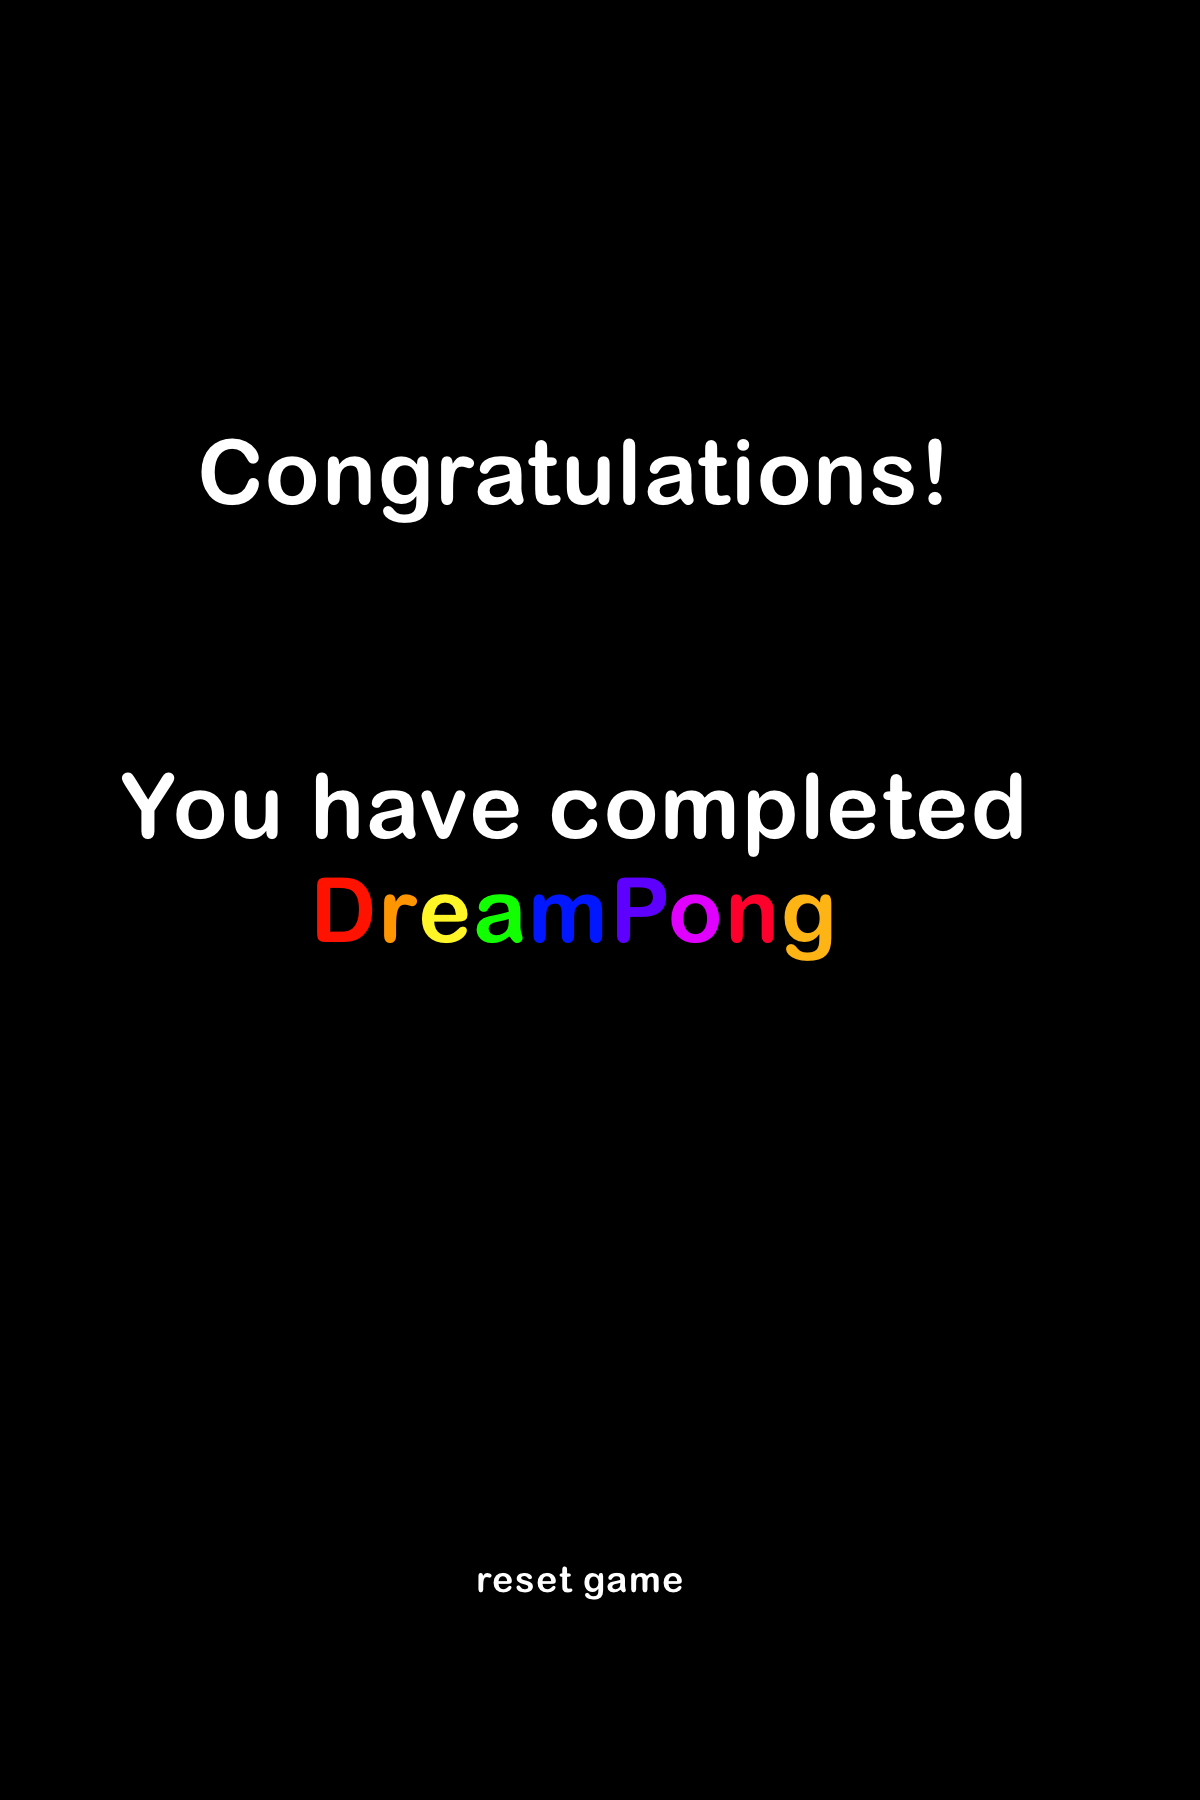
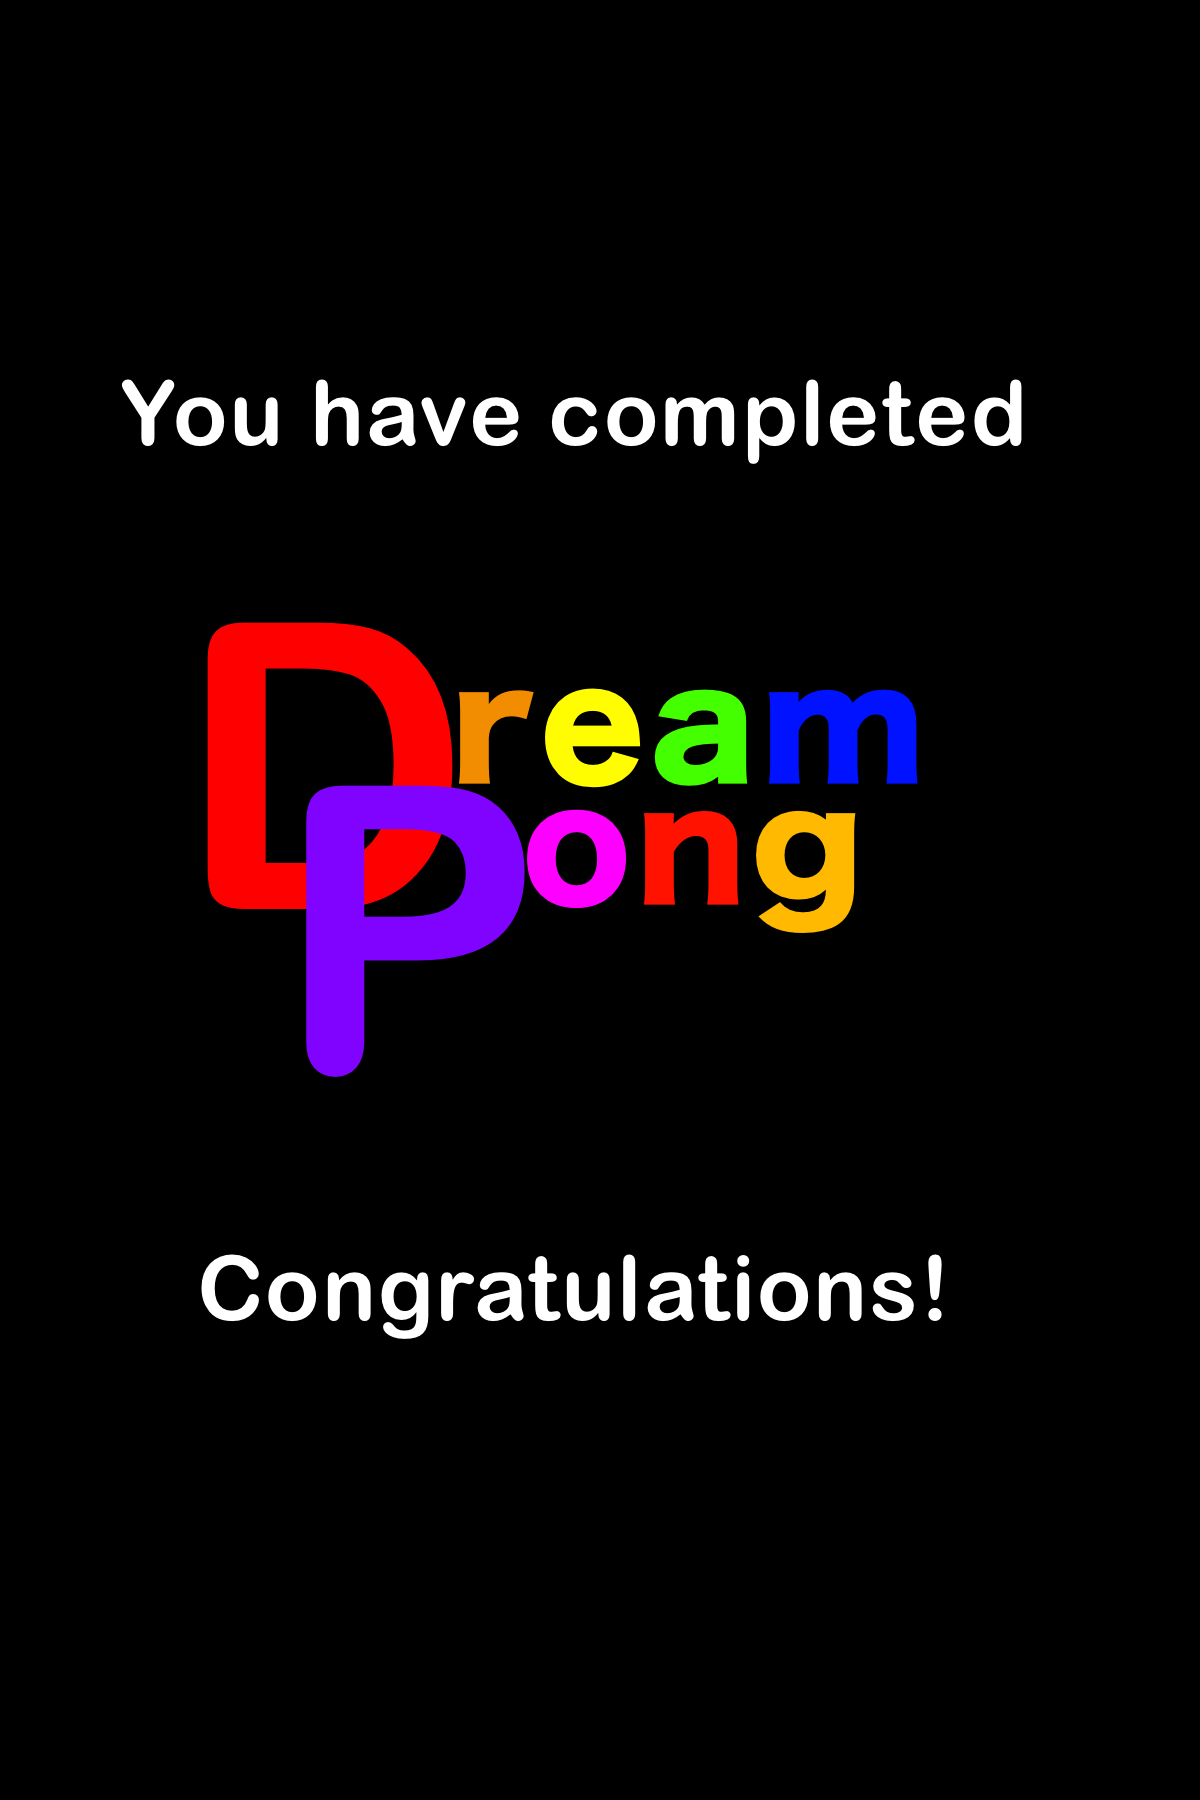
Relatively completed software to turn in

diff --git a/src/breakout/SceneController.java b/src/breakout/SceneController.java
@@ -20,6 +20,7 @@ import javafx.scene.text.Font;
 import javafx.stage.Stage;
 import java.util.ArrayList;
 import java.util.HashMap;
+import java.util.HashSet;
 import java.util.Scanner;
 import javafx.scene.control.Label;
 import javafx.util.Duration;
@@ -74,6 +75,7 @@ public class SceneController extends Application {
 
     //Level Screen Objects
     private Scene levelScene;
+    public static final String LEVEL_SCREEN_NEXT_LEVEL = "nextlevel.png";
     public static final String LEVEL_SCREEN_LAYOUT = "levellayout.png";
     public static final String LEVEL_SCREEN_MENU_BUTTON = "menubutton.png";
     public static final String LEVEL_SCREEN_MENU_BUTTON_HOVER = "menubuttonhover.png";
@@ -89,6 +91,7 @@ public class SceneController extends Application {
     public static final String PU_SLOWBALL= "pu_slowball.png";
     public static final String PU_POWERBALL= "pu_powerball.png";
     public static final String PU_LASER= "pu_laser.png";
+    public static final String DREAMBUCK = "dreambuck.png";
     public static final String LEVEL_1 = "Level1.txt";
     public static final String LEVEL_2 = "Level2.txt";
     public static final String LEVEL_3 = "Level3.txt";
@@ -115,6 +118,7 @@ public class SceneController extends Application {
     private Point2D ballVelocity = startingBallVelocity;
     private double preStickyBallVelocity;
     private Group levelRoot;
+    private ImageView levelScreenNextLevel;
     private ImageView levelScreenLayout;
     private ImageView paddle;
     private ImageView ball;
@@ -127,6 +131,7 @@ public class SceneController extends Application {
     private int paddleSpeed = 0;
     private HashMap<ImageView, Brick> brickMap = new HashMap<ImageView, Brick>();
     private HashMap<ImageView, PowerUp> powerUpMap = new HashMap<ImageView, PowerUp>();
+    private HashSet<ImageView> dbSet = new HashSet<ImageView>();
     private int oldLevel = 1;
     public final int MAX_LEVEL = 5;
 
@@ -167,7 +172,7 @@ public class SceneController extends Application {
     private void loadScenes(){
         startScene = setupStartScene(X_SIZE, Y_SIZE, WHITE_BACKGROUND);
         rulesScene = setupRulesScene(X_SIZE, Y_SIZE, WHITE_BACKGROUND);
-        levelScene = setupLevelScene(X_SIZE, Y_SIZE, WHITE_BACKGROUND, getCurrentLevelFileString(player.getLevel()), player);
+        levelScene = setupLevelScene(X_SIZE, Y_SIZE, WHITE_BACKGROUND, getCurrentLevelFileString(player.getLevel()));
         congratsScene = setupCongratsScene(X_SIZE, Y_SIZE, Color.BLACK);
         gameOverScene = setupGameOverScene(X_SIZE, Y_SIZE, Color.BLACK);
     }
@@ -176,7 +181,6 @@ public class SceneController extends Application {
         setStartScreenButtonProperties(stage);
         setRulesScreenButtonProperties(stage);
         setLevelScreenButtonProperties(stage);
-        setCongratsSceneButtonProperties(stage);
     }
 
 
@@ -185,9 +189,12 @@ public class SceneController extends Application {
             checkForLevelChange(stage);
             checkLoseLife(stage);
             //time dependent physics so game doesn't start right away
-            if(secSinceSceneTransition() > 2) {
+            if(secSinceSceneTransition() > 3) {
                 activeBallMovement(elapsedTime);
             } else {
+                if(secSinceSceneTransition() > 1.5 && player.getLevel() > 1){
+                    levelRoot.getChildren().remove(levelScreenNextLevel);
+                }
                 preStartBallMovement(elapsedTime);
             }
             //physics that are always on
@@ -197,6 +204,7 @@ public class SceneController extends Application {
             updateBallBoxCollisions();
             updateBallBrickCollisions();
             powerUpMovementHandler(elapsedTime);
+            dreambuckMovementHandler(elapsedTime);
         }
     }
 
@@ -222,7 +230,8 @@ public class SceneController extends Application {
             stage.setScene(currentScene);
         }
         else if(oldLevel != player.getLevel()){
-            levelScene = setupLevelScene(X_SIZE, Y_SIZE, WHITE_BACKGROUND, getCurrentLevelFileString(player.getLevel()), player);
+            player.setDreamBucks(player.getDreamBucks()+5);
+            levelScene = setupLevelScene(X_SIZE, Y_SIZE, WHITE_BACKGROUND, getCurrentLevelFileString(player.getLevel()));
             oldLevel = player.getLevel();
             currentScene = levelScene;
             markerTime = System.currentTimeMillis();
@@ -387,6 +396,27 @@ public class SceneController extends Application {
         }
     }
 
+    private void dreambuckMovementHandler(double elapsedTime){
+        ArrayList<Node> levelRootCopy = new ArrayList<Node>(levelRoot.getChildren());
+        for(Node node : levelRootCopy) {
+            Node copy = node;
+            if(dbSet.contains(node)){
+                ((ImageView)node).setY(((ImageView)node).getY() + POWERUP_SPEED * elapsedTime);
+                if(((ImageView)node).getBoundsInParent().intersects(paddle.getBoundsInParent())) {
+                    player.setDreamBucks(player.getDreamBucks() + 1);
+                    currentDreamBucks.setText(Integer.toString(player.getDreamBucks()));
+                    levelRoot.getChildren().remove(copy);
+                    dbSet.remove(node);
+                }
+                if(! brickGrid.getBoundsInParent().contains(node.getBoundsInParent())){
+                    levelRoot.getChildren().remove(copy);
+                    powerUpMap.remove(node);
+                    dbSet.remove(node);
+                }
+            }
+        }
+    }
+
     private void activatePowerUp(PowerUp pu){
         if(pu.getType() == PowerUp.PowerUpType.BIG_PADDLE){
             scaleImage(paddle, 1.5/3);
@@ -430,7 +460,6 @@ public class SceneController extends Application {
 
     private void handleBallBrickCollision(ImageView ball, Node brickNode){
         Brick hitBrickObject = brickMap.get(brickNode);
-        //bounce section
         if(getCenterPoint(ball).getY() < getOverallBrickYBound(brickNode) || getCenterPoint(ball).getY() >
                 getOverallBrickYBound(brickNode) + brickNode.getBoundsInParent().getHeight()){
             ballVelocity = new Point2D(ballVelocity.getX(), -ballVelocity.getY());
@@ -438,19 +467,24 @@ public class SceneController extends Application {
                 getOverallBrickXBound(brickNode) + brickNode.getBoundsInParent().getWidth()){
             ballVelocity = new Point2D(-ballVelocity.getX(), ballVelocity.getY());
         }
-        //destroy brick, powerup section
         hitBrickObject.registerHit();
         if(hitBrickObject.getRemainingHits() == 0) {
             player.setScore(player.getScore() + hitBrickObject.getPoints());
             currentScore.setText(Integer.toString(player.getScore()));
-            if (hitBrickObject.doesContainPowerUp()) {
-                dropPowerUp(brickNode);
-                //START HERE, DROP POWER UP INTO THE GAME, FALLING FROM WHERE BRICK WAS
-            }
+            handleDrops(brickNode, hitBrickObject);
             brickGrid.getChildren().remove(brickNode);
-            brickMap.remove(brickNode);
+            brickMap.remove(brickNode, hitBrickObject);
         } else {
             updateTexture(brickNode, hitBrickObject);
+        }
+    }
+
+    private void handleDrops(Node brickNode, Brick hitBrickObject){
+        if (hitBrickObject.doesContainPowerUp()) {
+            dropPowerUp(brickNode);
+        }
+        if (hitBrickObject.doesContainDreamBuck()){
+            dropDreamBuck(brickNode);
         }
     }
 
@@ -469,11 +503,23 @@ public class SceneController extends Application {
             puImage = createImageFromResourceStream(PU_LASER);
         }
         ImageView puImageView = new ImageView(puImage);
-        scaleImage(puImageView, ONE_THIRD_SCALEDOWN);
-        puImageView.setX(getOverallBrickXBound(brickNode) - brickNode.getBoundsInParent().getWidth()*0.8);
-        puImageView.setY(getOverallBrickYBound(brickNode));
+        formatDrop(brickNode, puImageView);
         powerUpMap.put(puImageView, pu);
         levelRoot.getChildren().add(puImageView);
+    }
+
+    private void dropDreamBuck(Node brickNode){
+        Image dbImage = createImageFromResourceStream(DREAMBUCK);
+        ImageView dbImageView = new ImageView(dbImage);
+        formatDrop(brickNode, dbImageView);
+        dbSet.add(dbImageView);
+        levelRoot.getChildren().add(dbImageView);
+    }
+
+    public void formatDrop(Node brickNode, ImageView dropImageView){
+        scaleImage(dropImageView, ONE_THIRD_SCALEDOWN);
+        dropImageView.setX(getOverallBrickXBound(brickNode) - brickNode.getBoundsInParent().getWidth()*0.8);
+        dropImageView.setY(getOverallBrickYBound(brickNode));
     }
 
     private void updateTexture(Node brickNode, Brick hitBrickObject){
@@ -546,6 +592,9 @@ public class SceneController extends Application {
             handleDigitInput(code);
         }
         else if(code == KeyCode.R){
+            System.out.println("RESET");
+            System.out.println(ball.getX());
+            System.out.println(ball.getY());
             handleReset();
         }
         else if(code == KeyCode.L){
@@ -646,10 +695,7 @@ public class SceneController extends Application {
         Group root = new Group();
         congratsText = createImageViewAndPlace(CONGRATS_TEXT, width, height, ONE_THIRD_SCALEDOWN, TRANSLATE_NONE,
                 TRANSLATE_NONE);
-        congratsHome = createButtonFromImageAndPlace(CONGRATS_BUTTON, width, height, ONE_THIRD_SCALEDOWN, (1.0/25),
-                -(1.0/4.0));
         root.getChildren().add(congratsText);
-        root.getChildren().add(congratsHome);
         Scene scene = new Scene(root, width, height, background);
         return scene;
     }
@@ -663,7 +709,7 @@ public class SceneController extends Application {
         return scene;
     }
 
-    private Scene setupLevelScene(int width, int height, Paint background, String level, Player player){
+    private Scene setupLevelScene(int width, int height, Paint background, String level){
         levelRoot = new Group();
         createAndPlaceLevelScreenNodes(width, height);
         loadLevel(brickGrid, level);
@@ -673,6 +719,9 @@ public class SceneController extends Application {
         levelRoot.getChildren().add(levelScreenMenuButton);
         levelRoot.getChildren().add(brickGrid);
         levelRoot.getChildren().addAll(levelScreenLabels);
+        if(player.getLevel() > 1){
+            levelRoot.getChildren().add(levelScreenNextLevel);
+        }
         Scene scene = new Scene(levelRoot, width, height, background);
         scene.setOnKeyPressed(e -> handleKeyPressedInput(e.getCode()));
         scene.setOnKeyReleased(e -> handleKeyReleasedInput(e.getCode()));
@@ -684,6 +733,8 @@ public class SceneController extends Application {
                 TRANSLATE_NONE);
         levelScreenMenuButton = createButtonFromImageAndPlace(LEVEL_SCREEN_MENU_BUTTON, width, height, ONE_THIRD_SCALEDOWN*.66,
                 -(ONE_THIRD_TRANSLATE + 1.0/100), ONE_THIRD_TRANSLATE);
+        levelScreenNextLevel = createImageViewAndPlace(LEVEL_SCREEN_NEXT_LEVEL, width, height, ONE_THIRD_SCALEDOWN,
+                TRANSLATE_NONE, TRANSLATE_NONE);
         brickGrid = createAndAlignBrickGrid(width, height);
         paddle = createImageViewAndPlace(player.getPaddle().getPaddleImg(), width, height, ONE_THIRD_SCALEDOWN, (1.0/9.0), -(1.5/5.0));
         ball = createImageViewAndPlace(player.getBall().getBallImg(), width, height, ONE_THIRD_SCALEDOWN, (1.0/9.0), -(1.387/5.0));
@@ -782,11 +833,6 @@ public class SceneController extends Application {
         setButtonHoverPropery(titleScreenRules, TITLE_SCREEN_RULES, TITLE_SCREEN_RULES_HOVER);
         setButtonSceneTransition(titleScreenRules, rulesScene, stage);
         setButtonSceneTransition(titleScreenPlay, levelScene, stage);
-    }
-
-    private void setCongratsSceneButtonProperties(Stage stage){
-        setButtonHoverPropery(congratsHome, CONGRATS_BUTTON, CONGRATS_BUTTON_HOVER);
-        setButtonSceneTransitionReset(congratsHome, startScene, stage);
     }
 
     private String getCurrentLevelFileString(int playerLevel){
